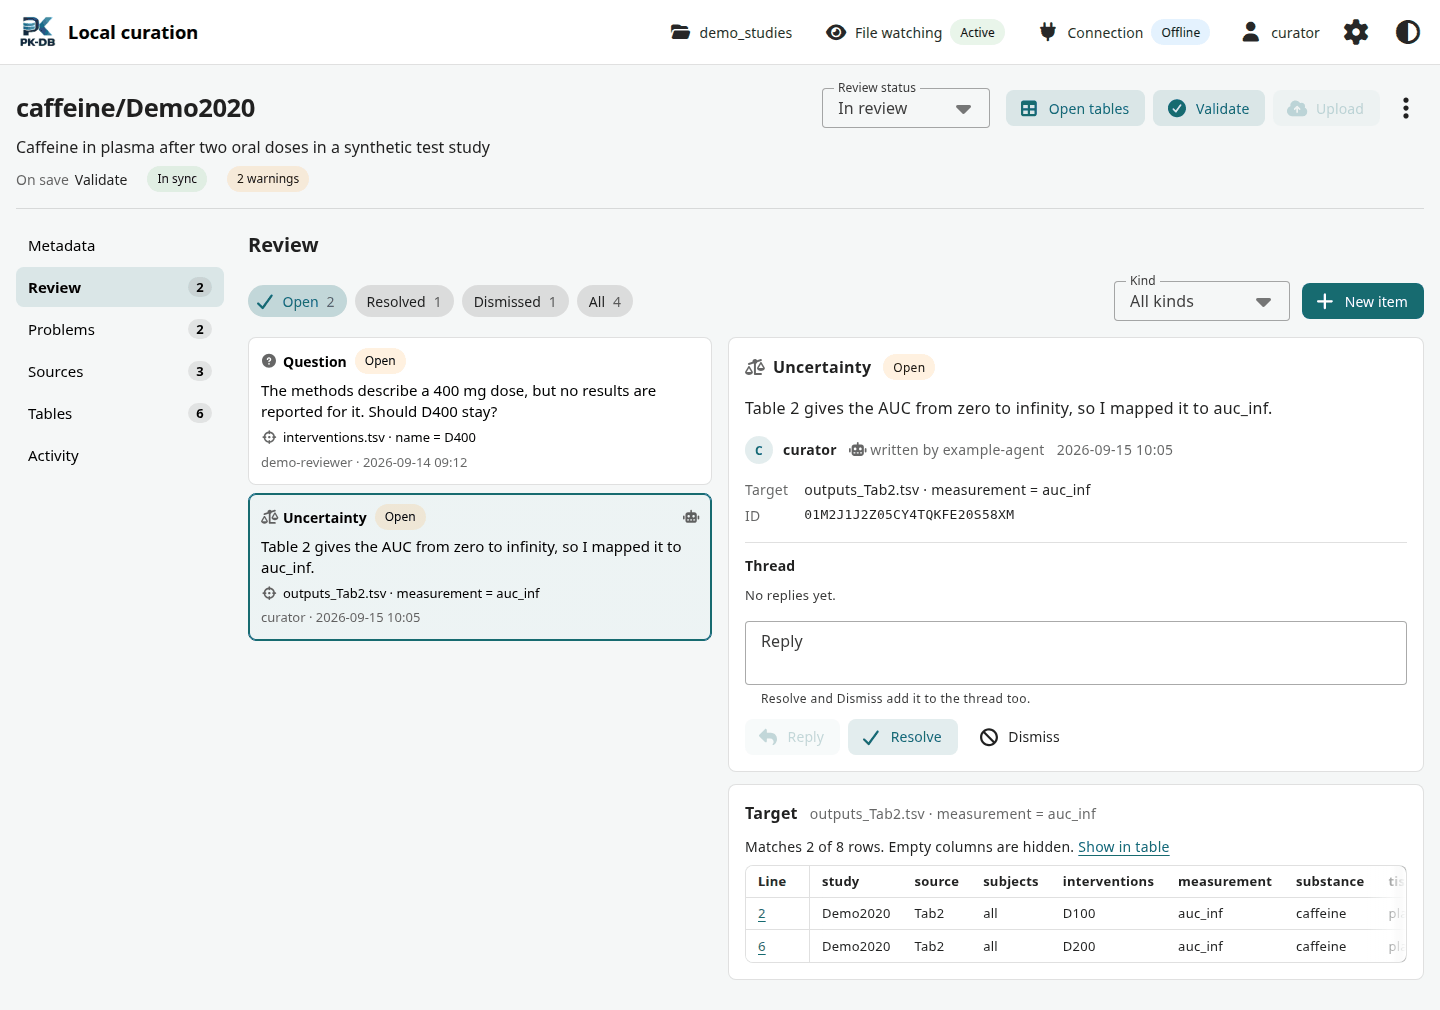
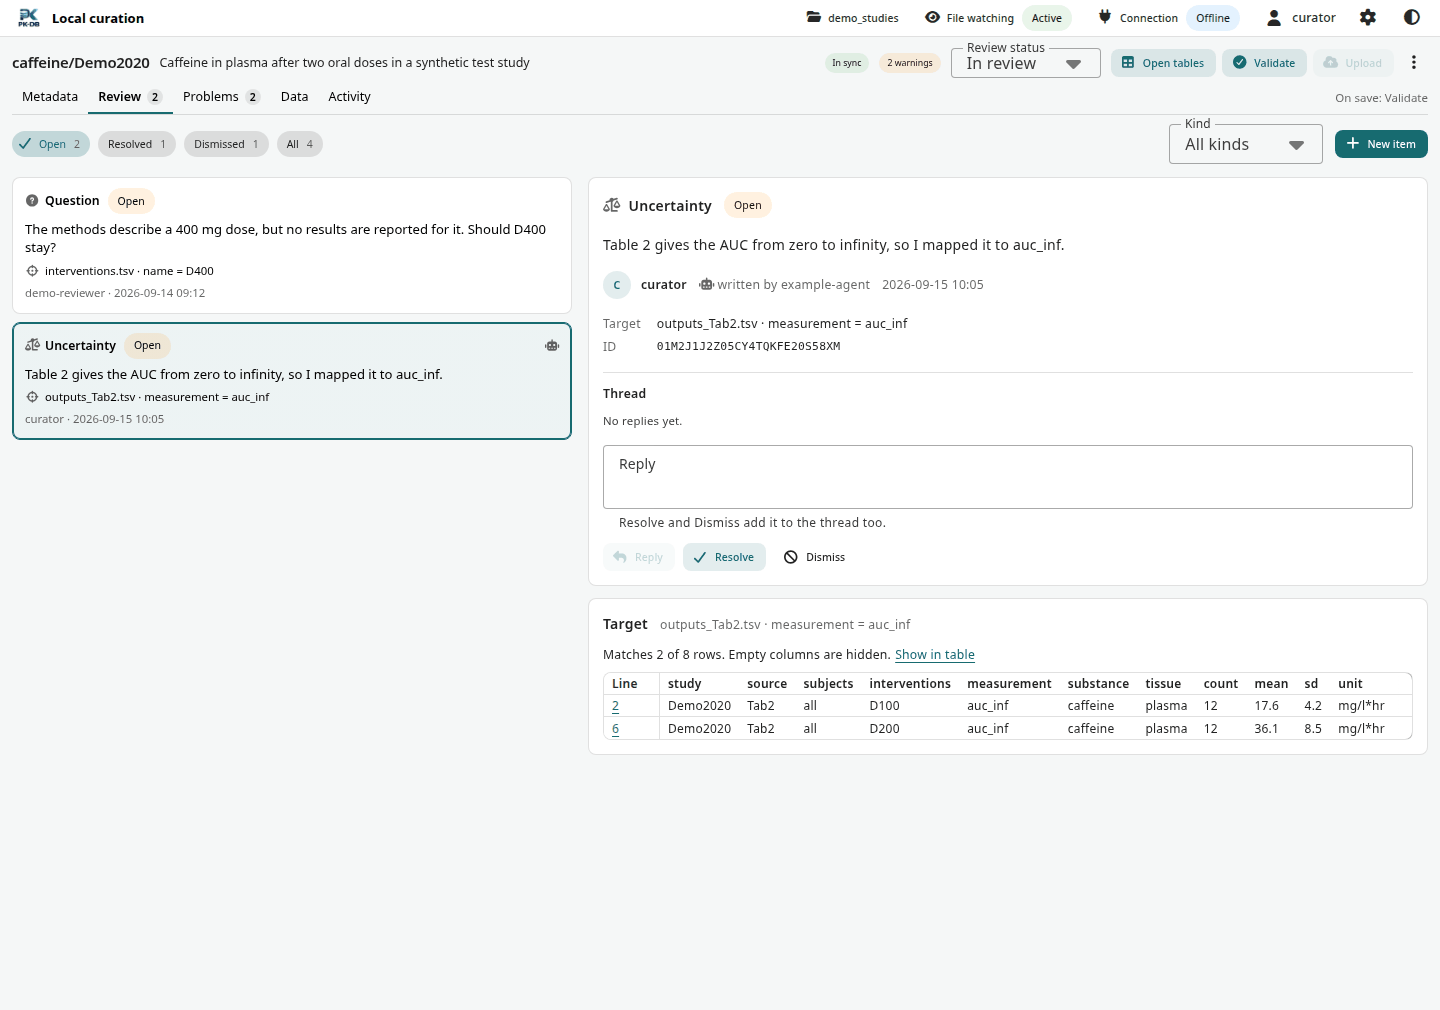
Document the Data section and render its screenshots

diff --git a/docs/local-curation.md b/docs/local-curation.md
@@ -74,7 +74,7 @@ The overview lists the study format 2 folders of the workspace by their identity
 | Review | The status of `review.json` (Draft, In review or Approved), and **AI** for an automatic curation. |
 | Open items | The number of open review items. |
 | Problems | The errors and warnings of the last validation, or **valid**, and what the study is doing, such as **Validating**. |
-| Sync | The sync status of the workbook and the tables, see [Tables](#tables). |
+| Sync | The sync status of the workbook and the tables, see [Data](#data). |
 | Release | The PKDB identifier of the release in `study.json`. |
 | Issue | The GitHub issue of the study, from `issue` in `study.json`. GitHub is read with `GH_TOKEN` or `GITHUB_TOKEN`, see the [environment table](python-client.md#environment-variables). |
 | Curators | The curators, with names and pictures from the curator roster that comes with `pkdb`, also offline. |
@@ -89,9 +89,11 @@ Study format 1 folders are not listed. The line below the table counts them, and
 
 ## The study page
 
-The header of a study shows its identity, its release, its issue and its provenance, the title of the publication, the PMID, the On save action, the sync status, the problems and the last upload. Its actions are the **Review status** select, **Open tables**, **Validate**, **Upload**, and the **More actions** menu with **Open folder**, **Open PDF** (`<name>.pdf` in the study folder), **Add table** and **Copy path**.
+The header of a study is one line: its identity, its release, its issue and its provenance, the title of the publication, the PMID, the sync status, the problems, the **Review status** select, **Open tables**, **Validate**, **Upload**, and the **More actions** menu with **Open folder**, **Open PDF** (`<name>.pdf` in the study folder), **Add table** and **Copy path**.
 
-The rail on the left lists the sections Metadata, Review, Problems, Sources, Tables and Activity, with the number of open review items, problems, sources and tables. A study beyond the upload limits shows no number of sources and tables, because the app cannot read them; its Sources and Tables sections and the targets of its review items say so, and Problems names the limit. A study opens on Review when it has open items, on Problems when it has errors, and on Metadata otherwise.
+Tabs under the header switch between the sections Metadata, Review, Problems, Data and Activity. The tabs of Review and Problems count the open review items and the problems. At the end of the tab line are two facts: **On save**, the action of a save, and **Last upload**, with a link to the study on PK-DB. A narrow window turns the tabs into a select. A study beyond the upload limits shows no sources and tables, because the app cannot read them; its Data section and the targets of its review items say so, and Problems names the limit. A study opens on Review when it has open items, on Problems when it has errors, and on Metadata otherwise.
+
+The old addresses `#/studies/<substance>/<name>/sources` and `.../tables` open the Data section, with their query.
 
 ### Metadata
 
@@ -127,27 +129,27 @@ The **Review status** select in the header sets Draft, In review or Approved. Ap
 
 The Problems section lists the issues of the last validation by file. Each shows its severity, code and message, and where it is: the line and the column of the TSV file and the cell of the workbook sheet. Spelling suggestions follow **Did you mean:**.
 
-Filter by **All**, **Errors** or **Warnings**. **Show in table** opens the Tables section at the cell of the issue. **Open** opens another file of the study, such as `study.json`, in its default application, and **Open tables** opens the workbook.
+Filter by **All**, **Errors** or **Warnings**. **Show in table** opens the Data section at the cell of the issue. **Open** opens another file of the study, such as `study.json`, in its default application, and **Open tables** opens the workbook.
 
 **Acknowledge** marks a warning as expected; errors cannot be acknowledged. Neither can the warnings of a sync that stopped before the validation, such as a workbook saved during the sync: they are about the workbook, not about the study files. It asks for a reason and writes a resolved review item that acknowledges exactly this warning: a warning at a row of a data table at its row and column, and a warning of a whole file by its key, such as the dataset of a WebPlotDigitizer project or the review item of `review.json`. Other warnings with the same code, also later ones, stay listed. The warning leaves the list after the next validation. The acknowledged warnings are listed below the problems with their reason and a link to their review item. An acknowledgement that names only a file, as the app wrote before acknowledgements were exact, covers every warning of its code in that file, also later ones, and the list says so. Dismissing the review item brings its warnings back.
 
-### Sources
+### Data
 
-The Sources section has a tab for each source of the study: each paper table (`Tab…`), each figure (`Fig…`), and the text (`Text`).
+The Data section shows a source of the study beside the rows of a table. It has three panes: the navigator, the source pane and the rows pane.
 
-[![The Sources section of the figure Fig1: the digitized points and the mapped rows on the image, with the hover label of a mapped row that lies away from its digitized point.](images/curation/sources.png)](images/curation/sources.png)
+[![The Data section with the figure Fig1: the navigator of sources and table files, the digitized points and the mapped rows on the image with the hover label of the selected mapped row, and the rows of timecourses_Fig1.tsv with that row marked.](images/curation/data.png)](images/curation/data.png)
 
-- A table shows its image, its raw extraction `<name>_<source>.tsv` as a grid with spreadsheet column letters, and the mapped rows.
-- A figure with a WebPlotDigitizer project `<name>_<source>.wpd.json` shows the digitization on the image: dots for the digitized points, short bars for the digitized ends of error bars, crosses for the mapped rows and lines for their error bars. Hover a point to see its file, TSV line, series and values, and click a point, bar or cross to show its row in the Tables section. **Data of the plot** lists every point in a table. The series without a dataset in the project are plotted below the image.
-- A figure without a project shows its image and a plot of the mapped rows.
+- The navigator lists the sources, each paper table (`Tab…`), figure (`Fig…`) and the text (`Text`), with a thumbnail of its image, and the table files in the order of the workbook sheets, with the raw tables last. A source and a file show the number of their problems and open review items. While a source is selected, a file shows how many rows of the source it has, and a file without any is dimmed. In a window narrower than 1100 pixels the navigator becomes two selects, **Source** and **Table**, in the toolbar.
+- The source pane shows the selected source. A table shows its image and its raw extraction `<name>_<source>.tsv` as a grid with spreadsheet column letters. A figure with a WebPlotDigitizer project `<name>_<source>.wpd.json` shows the digitization on the image: dots for the digitized points, short bars for the digitized ends of error bars, crosses for the mapped rows and lines for their error bars. Hover a point to see its file, TSV line, series and values. **Data of the plot** lists every point in a table, and the series without a dataset in the project are plotted below the image. A figure without a project shows its image and a plot of the mapped rows. A missing image or raw extraction shows the name of the file to add. The problems of the files of the source are listed at the end, by file, as in the Problems section.
+- The rows pane shows the selected table file, read only. Its line numbers are the lines of the TSV file, the rows that open review items target are amber, and the cells with problems are outlined.
 
-The mapped rows of a source are the rows of its tables `outputs_<source>.tsv`, `timecourses_<source>.tsv` and `scatters_<source>.tsv`, and the rows of `subjects.tsv`, `characteristica.tsv` and `interventions.tsv` whose `source` names it. They are grouped by table in the order of the workbook sheets, and each line number links to the row in the Tables section. A missing image or raw extraction shows the name of the file to add. The problems of the files of a source are listed at the end, by file, as in the Problems section.
+The separator between the source pane and the rows pane resizes them; drag it or focus it and press the arrow keys. The app remembers the split. In a window narrower than 960 pixels the panes stack, the source above its rows.
 
-### Tables
+The selection is linked. Choose a source in the navigator, and the pane shows it and the rows pane shows the table file of its mapped rows. Choose a table file, and the pane shows the source that owns it. Click a row, and the source pane rings its point on the plot or the image. Click the cross of a mapped row, and the rows pane selects its row. The selection is in the address of the page as `source`, `file`, `line` and `column`, so that **Show in table** of the Problems and Review sections and the line numbers of a review target open the row.
 
-The Tables section starts with the sync status of the workbook `<name>.xlsx` and the tables.
+The mapped rows of a source are the rows of its tables `outputs_<source>.tsv`, `timecourses_<source>.tsv` and `scatters_<source>.tsv`, and the rows of `subjects.tsv`, `characteristica.tsv` and `interventions.tsv` whose `source` names it. A table shared by several sources, such as `subjects.tsv`, names the source of each row. The switch **Rows of <source> only** shows the rows of the selected source until you turn it off. **Hide empty columns** hides the columns without values; it is on when the section opens, and the line above the grid counts the hidden columns.
 
-[![The Tables section in a conflict: the workbook and the TSV file changed the mean of the same row, and the panel shows the last sync, the workbook row and the table line with Keep workbook, Keep tables and Open workbook.](images/curation/tables-conflict.png)](images/curation/tables-conflict.png)
+The toolbar starts with these switches. After them come **Sync**, which syncs the workbook `<name>.xlsx` and the tables at once, and **Add table**, which adds a sheet to the workbook, see [Work with the workbook](#work-with-the-workbook). A line of text ends the toolbar: after a sync in the app it says what the sync changed, and while the status is not In sync it says what the status means. The sync status itself is in the study header.
 
 | Status | Meaning |
 | --- | --- |
@@ -160,9 +162,9 @@ The Tables section starts with the sync status of the workbook `<name>.xlsx` and
 | Unknown | The workbook or the tables cannot be read. |
 | Not checked yet | The app has not checked the workbook and the tables yet. |
 
-When the workbook and the tables conflict, the panel **Conflicting rows** shows the rows of each conflicting table in one grid: the rows of the last sync, the rows of the workbook and the lines of the TSV file. The columns that differ come first and are marked. **Keep workbook** or **Keep tables** resolves all conflicts with one side. To combine both, edit the rows in the workbook, save it, and keep the workbook. **Open workbook** opens it. Validation and upload wait until the conflict is resolved.
+[![The Data section in a conflict: the workbook and the TSV file changed the mean of the same row, and the panel at the top of the rows pane shows the last sync, the workbook row and the table line with Keep workbook, Keep tables and Open workbook.](images/curation/data-conflict.png)](images/curation/data-conflict.png)
 
-Below the status are **Sync**, which syncs at once, and **Add table**, then a tab for each table and raw table in the order of the workbook sheets: `subjects`, `characteristica`, `interventions`, the outputs, timecourses and scatters, and the raw tables. A tab counts the problems and the open review items of its table. The grid is read only. Its line numbers are the lines of the TSV file, the rows that open review items target are amber, and the cells with problems are outlined. **Hide empty columns** hides the columns without values; it is on when the section opens, and the line above the grid counts the hidden columns.
+When the workbook and the tables conflict, the panel **Conflicting rows** shows at the top of the rows pane, with the rows of each conflicting table in one grid: the rows of the last sync, the rows of the workbook and the lines of the TSV file. The columns that differ come first and are marked. **Keep workbook** or **Keep tables** resolves all conflicts with one side. To combine both, edit the rows in the workbook, save it, and keep the workbook. **Open workbook** opens it. Validation and upload wait until the conflict is resolved.
 
 ### Activity
 
@@ -203,9 +205,9 @@ When the connection fails during an upload, the outcome of the upload is unknown
 
 Tables are edited in the workbook `<name>.xlsx`, not in the app. **Open tables** syncs the study, creates the workbook when it does not exist, and opens it in the default application for `.xlsx` files. Save the workbook, and the app syncs it into the tables, formats them and validates the study. The app never replaces a workbook that is open; close it so that the app can update it from the tables. See [Edit tables in a workbook](workbooks.md).
 
-**Add table**, in the study menu or the Tables section, adds an empty sheet to the workbook: a table of outputs, timecourses or scatters for a source such as `Tab3`, `Fig2A` or `Text`, or the raw table `<name>_<source>` of a paper table. Close the workbook first. The TSV file appears when the sheet has content and you save the workbook. Validation needs the image `<name>_<source>.png` of every paper table and figure.
+**Add table**, in the study menu or the Data section, adds an empty sheet to the workbook: a table of outputs, timecourses or scatters for a source such as `Tab3`, `Fig2A` or `Text`, or the raw table `<name>_<source>` of a paper table. Close the workbook first. The TSV file appears when the sheet has content and you save the workbook. Validation needs the image `<name>_<source>.png` of every paper table and figure.
 
-When the workbook and the TSV files changed the same rows since the last sync, the sync stops and reports a conflict. Resolve it in the [Tables](#tables) section, or with `pkdb tables sync --keep workbook` or `--keep tables`.
+When the workbook and the TSV files changed the same rows since the last sync, the sync stops and reports a conflict. Resolve it in the [Data](#data) section, or with `pkdb tables sync --keep workbook` or `--keep tables`.
 
 ## WebPlotDigitizer projects
 
@@ -217,7 +219,7 @@ pkdb digitize import /path/to/studies/caffeine/Demo2020 Fig1 Demo2020_Fig1.tar
 
 The command takes a project `.json` file or a saved `.tar` project, checks it against the image, and writes `<name>_<source>.wpd.json`. When the study has no image yet and the `.tar` project holds exactly one PNG image, it writes the image too. Name each dataset after its series: the `label` of a timecourse for its central values, `<label>;error_bar` for the ends of its error bars, and the `name` of a scatter for its points.
 
-The Sources section then draws the digitized points and the mapped rows on the image. Validation warns about a dataset without rows (`unknown_dataset`). It also warns, as `digitized_mismatch`, about a mapped row more than 2 pixels away from every point of its dataset, and about the points of a dataset that have no mapped row within 2 pixels. `pkdb plot` draws the same comparison into PNG files, for agents. See [Raw extraction](study-format.md#raw-extraction) for the accepted projects.
+The Data section then draws the digitized points and the mapped rows on the image. Validation warns about a dataset without rows (`unknown_dataset`). It also warns, as `digitized_mismatch`, about a mapped row more than 2 pixels away from every point of its dataset, and about the points of a dataset that have no mapped row within 2 pixels. `pkdb plot` draws the same comparison into PNG files, for agents. See [Raw extraction](study-format.md#raw-extraction) for the accepted projects.
 
 ## AI-curated studies
 
@@ -225,7 +227,7 @@ An AI agent curates a study with the same files and the `pkdb` command line. It 
 
 - **AI** in the Review column of the overview and **AI curated** with the method in the study header, when the provenance in `study.json` is an automatic curation;
 - a robot on the cards of the items of the agent, and **written by** with the name of the agent on the selected item;
-- the raw extraction next to the mapped rows of each source in the Sources section.
+- the raw extraction of each paper table in the source pane of the Data section, beside its mapped rows.
 
 Agents may add, answer, resolve and dismiss items, but a person approves a study: `pkdb review status approved` refuses to run for an agent, and the app always writes as a person. See the curation commands in [Python client](python-client.md#study-format-2-folders).
 

diff --git a/tools/curation_docs/README.md b/tools/curation_docs/README.md
@@ -1,8 +1,8 @@
 # Curation app screenshots and benchmarks
 
-`render.mjs` renders the screenshots of [the local curation app guide](../../docs/local-curation.md) into `docs/images/curation/`: `overview.png`, `review.png`, `sources.png`, `metadata.png` and `tables-conflict.png`, in the light theme, 1440 pixels wide. Most are 900 pixels high; `review.png` is 1010 and `sources.png` 1100 pixels high, so that they show the study header together with the whole review target or the whole figure. It drives the real app of a running `pkdb curate` in Chromium by roles and labels. The app runs on a copy of the synthetic fixture workspace of the browser tests (`tools/curation_testing/fixture`), so the images show no real publication or account.
+`render.mjs` renders the screenshots of [the local curation app guide](../../docs/local-curation.md) into `docs/images/curation/`: `overview.png`, `review.png`, `data.png`, `metadata.png` and `data-conflict.png`, in the light theme, 1440 pixels wide. `review.png` and `data.png` are 1010 pixels high, so that they show the whole review target or the whole figure with its legend; the others are 900 pixels high. It drives the real app of a running `pkdb curate` in Chromium by roles and labels. The app runs on a copy of the synthetic fixture workspace of the browser tests (`tools/curation_testing/fixture`), so the images show no real publication or account.
 
-The renderer changes the workspace: for `tables-conflict.png` it edits the same cell of `caffeine/Demo2020` in the workbook and in `timecourses_Fig1.tsv`. Start every run from a fresh copy.
+The renderer changes the workspace: for `data-conflict.png` it edits the same cell of `caffeine/Demo2020` in the workbook and in `timecourses_Fig1.tsv`. Start every run from a fresh copy.
 
 You need the frontend dependencies with Playwright Chromium, the built app, and [uv](https://docs.astral.sh/uv/). From the repository root:
 

diff --git a/docs/python-client.md b/docs/python-client.md
@@ -83,7 +83,7 @@ Create and enrich `reference.json` from a PMID, DOI, or manual citation with `pk
 
 ## Prepare, validate, and upload a study folder
 
-`pkdb` includes a [local curation app](local-curation.md) for study format 2 folders: forms for the metadata and the review items, the sources and tables side by side, file watching, and validation or upload on save. Launch it with `pkdb curate /path/to/pkdb_data`; the illustrated guide covers setup and offline work.
+`pkdb` includes a [local curation app](local-curation.md) for study format 2 folders: forms for the metadata and the review items, a Data section with the sources and tables side by side, file watching, and validation or upload on save. Launch it with `pkdb curate /path/to/pkdb_data`; the illustrated guide covers setup and offline work.
 
 Pass the existing study directory from `pkdb_data` directly. Keep its original `study.json`, `reference.json`, workbooks, tables, and attachments together. The directory name must match the study's name. The parser understands existing spreadsheet sheet names, second-row workbook headers, `col==...` expressions, and TSV sources; no intermediate conversion is needed. A folder whose `study.json` contains `"format": 2` is a [study format 2](study-format.md) folder; `prepare`, `validate`, and `upload` accept both formats, and for study format 2 the folder is located as `<substance>/<name>` (for example `studies/caffeine/Harder1988`).
 
